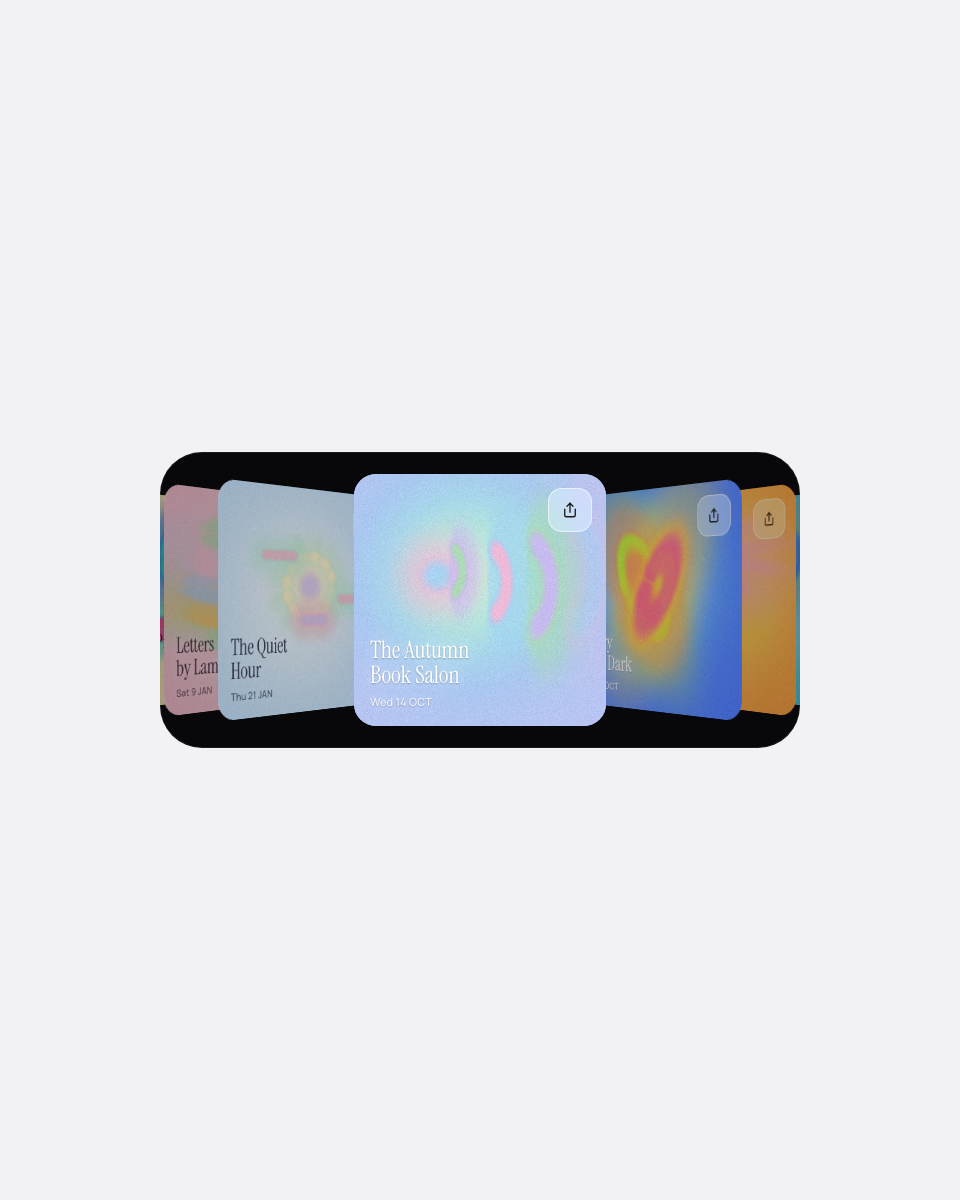
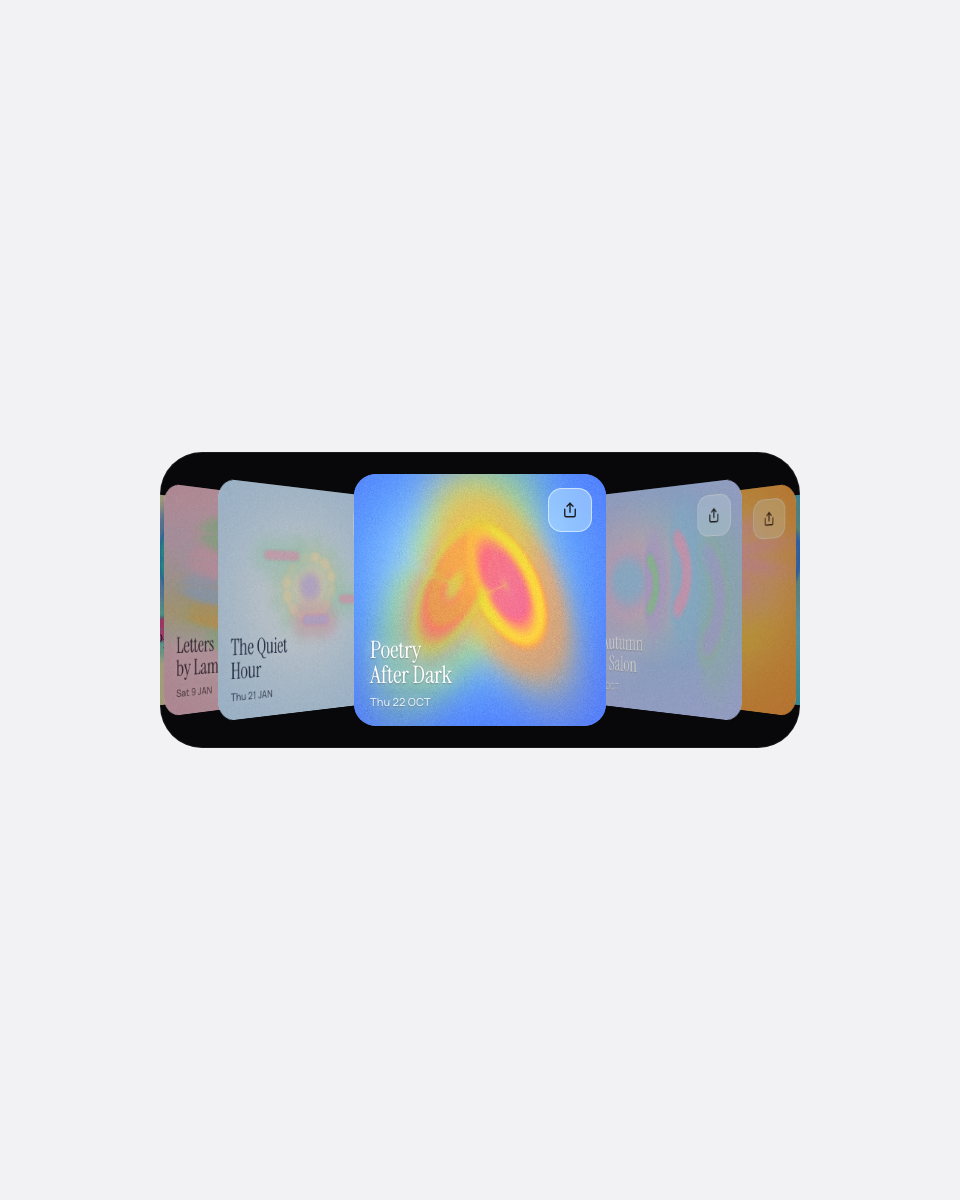
feat: Frosted Event Card — Poetry After Dark leads the ring
The Matisse card is the default centre on the detail page, the home
gallery card and the poster.

Changed region(s): [[0.3438, 0.37, 0.7812, 0.6167]]

diff --git a/components/card/frosted-event-card/frosted-event-card.tsx b/components/card/frosted-event-card/frosted-event-card.tsx
@@ -56,10 +56,10 @@ const INK = "#08080A";
 
 const PRESS = { type: "spring", stiffness: 500, damping: 30 } as const;
 
-/** A season of the salon: one card per evening, each with its own aura. */
+/** A season of the salon: one card per evening, each with its own aura. Poetry After Dark leads. */
 const EVENTS: EventItem[] = [
-  { id: "salon", pattern: "waves", mood: "monet", title: ["The Autumn", "Book Salon"], subtitle: "This season's pick: The Remains of the Day by Kazuo Ishiguro", date: { month: "OCT", day: "14", weekday: "Wed", dateTime: "2026-10-14" } },
   { id: "poetry", pattern: "ovals", mood: "matisse", title: ["Poetry", "After Dark"], subtitle: "An evening of readings by candlelight, with a glass of something warm", date: { month: "OCT", day: "22", weekday: "Thu", dateTime: "2026-10-22" } },
+  { id: "salon", pattern: "waves", mood: "monet", title: ["The Autumn", "Book Salon"], subtitle: "This season's pick: The Remains of the Day by Kazuo Ishiguro", date: { month: "OCT", day: "14", weekday: "Wed", dateTime: "2026-10-14" } },
   { id: "table", pattern: "stack", mood: "rothko", title: ["The Long", "Table"], subtitle: "A shared supper and a swap of the books you loved this year", date: { month: "NOV", day: "5", weekday: "Thu", dateTime: "2026-11-05" } },
   { id: "voices", pattern: "orbit", mood: "hockney", title: ["Two", "Voices"], subtitle: "Two novelists in conversation about writing from memory", date: { month: "NOV", day: "19", weekday: "Thu", dateTime: "2026-11-19" } },
   { id: "winter", pattern: "hourglass", mood: "hilma", title: ["The Winter", "Reading Party"], subtitle: "Closing the season with readings, cake and a raffle of signed copies", date: { month: "DEC", day: "3", weekday: "Thu", dateTime: "2026-12-03" } },
